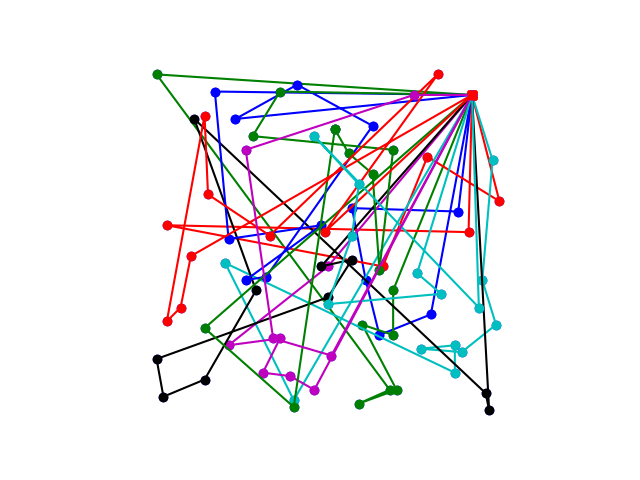
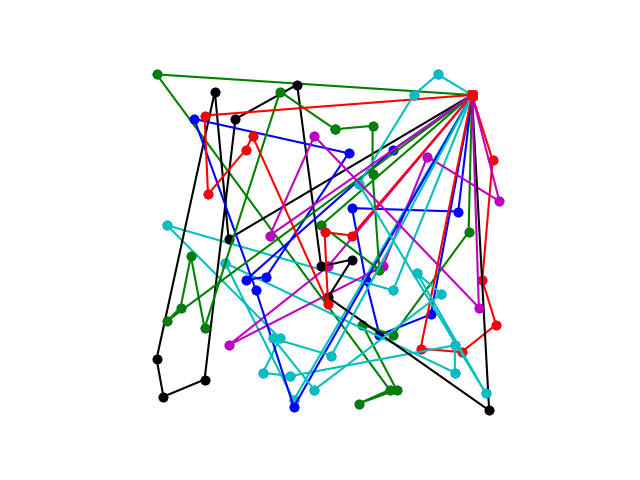
Local Search Algorithms one and two. Not working as good as expected

Changed region(s): [[0.25, 0.125, 0.8125, 0.875]]

diff --git a/src/solverLS.py b/src/solverLS.py
@@ -13,25 +13,96 @@ class LocalSearch:
     def euclideanDistance(self, coordinate1, coordinate2):
         return pow(pow(coordinate1.x - coordinate2.x, 2) + pow(coordinate1.y - coordinate2.y, 2), .5)
 
-    def local_search(self, start_sol, time_left):
+    # First attempt - Compare two routes
+    # Husk at beregne til det næste punkt, som der bliver byttet ud med
+    def local_search2(self, start_sol, current_total_distance, time_left):
         "start_sol = 2D-array solution/routes"
-        # To implement
         t0 = time.clock()
-        route = [0]
-        q=0
-        swap = False
-        distance_route1 = 0
-        distance_route2 = 0
-        for i in range(len(start_sol)):
-            for j in range(1, len(start_sol)):
-                temp = self.euclideanDistance(self.instance.nodes[current]["pt"], self.instance.nodes[j]["pt"])
-                start_sol[i][j] = 
+        #print("BEFORE: ", start_sol.routes)
+        counter = 0
+        exit_criteria = True
+        while exit_criteria:
+            for i in range(len(start_sol.routes)-1):
+                for j in range(len(start_sol.routes[i])):
+                    try:
+                        # Triangle Inequality                    
+                        sidea_dist_r1 = self.euclideanDistance(self.instance.nodes[start_sol.routes[i][j]]["pt"], self.instance.nodes[start_sol.routes[i][j+1]]["pt"])
+                        sideb_dist_r1 = self.euclideanDistance(self.instance.nodes[start_sol.routes[i][j+1]]["pt"], self.instance.nodes[start_sol.routes[i+1][j+1]]["pt"])
+                        sidec_dist_r1 = self.euclideanDistance(self.instance.nodes[start_sol.routes[i][j]]["pt"], self.instance.nodes[start_sol.routes[i+1][j+1]]["pt"])
+                        sidea_dist_r2 = self.euclideanDistance(self.instance.nodes[start_sol.routes[i+1][j]]["pt"], self.instance.nodes[start_sol.routes[i+1][j+1]]["pt"])
+                        sidec_dist_r2 = self.euclideanDistance(self.instance.nodes[start_sol.routes[i+1][j]]["pt"], self.instance.nodes[start_sol.routes[i][j+1]]["pt"])
+                        if sidea_dist_r1 + sideb_dist_r1 > sidec_dist_r1: #Triangle Inequality by contradiction withhold
+                            if sidec_dist_r1 < sidea_dist_r1: # We can make a swap                            
+                                if (start_sol.route_rq_slack[i] - self.instance.nodes[start_sol.routes[i][j+1]]["rq"] + self.instance.nodes[start_sol.routes[i+1][j+1]]["rq"]) <= self.instance.capacity:
+                                    tempPointer = start_sol.routes[i+1][j+1]
+                                    start_sol.routes[i+1][j+1] = start_sol.routes[i][j+1]
+                                    start_sol.routes[i][j+1] = tempPointer
+                                    current_total_distance = current_total_distance - sidea_dist_r1 + sidec_dist_r1 - sidea_dist_r2 + sidec_dist_r2
+                                else:
+                                    counter += 1
+                                    if counter == 5:
+                                        exit_criteria = False
+                                    pass
+                                    #print("Not enough capacity")
+                    except IndexError:
+                        pass
+                            #print('Out of Range')
+                    
+                    if time.clock() - t0 > time_left:
+                        sys.stdout.write("Time expired")
+                        return start_sol
 
+        #print("AFTER: ", start_sol.routes)
+        self.total_distance = current_total_distance
         return start_sol
 
-    def swap(self, route1_element, route2_element):
-        temp = route1_element
-        route1_element = route2_element
-        route2_element = temp
-        del temp
-        return (route1_element, route2_element)
+
+    #Første loop:
+    #   Index for at holde styr på den enkelte rute, som man er igang med
+
+    #Andet loop:
+    #   Index til hvert element i første rute
+
+    #Tredje loop:
+	#   Index til hvert element i anden rute
+    # Husk at beregne til det næste punkt, som der bliver byttet ud med
+    def local_search3(self, start_sol, current_total_distance, time_left):
+        "start_sol = 2D-array solution/routes"
+        t0 = time.clock()
+        #print("BEFORE: ", start_sol.routes)
+        exit_criteria = True
+        #while exit_criteria:
+        for i in range(len(start_sol.routes)-1):
+            if i+1 < len(start_sol.routes):
+                for j in range(len(start_sol.routes[i])-1):
+                    for k in range(len(start_sol.routes[i+1])-1):
+                        try:
+                            sidea_r1 = self.euclideanDistance(self.instance.nodes[start_sol.routes[i][k]]["pt"], self.instance.nodes[start_sol.routes[i][k+1]]["pt"])
+                            #sideb_r1 = self.euclideanDistance(self.instance.nodes[start_sol.routes[i][k+1]]["pt"], self.instance.nodes[start_sol.routes[i+1][k+1]]["pt"])
+                            sidec_r1 = self.euclideanDistance(self.instance.nodes[start_sol.routes[i][k]]["pt"], self.instance.nodes[start_sol.routes[i+1][k+1]]["pt"])
+                            
+                            # Route two to equalize the swap in route one 
+                            sidea_r2 = self.euclideanDistance(self.instance.nodes[start_sol.routes[i+1][k]]["pt"], self.instance.nodes[start_sol.routes[i+1][k+1]]["pt"])
+                            # Side B Route 2 is the same as Side B Route 1
+                            sidec_r2 = self.euclideanDistance(self.instance.nodes[start_sol.routes[i+1][k]]["pt"], self.instance.nodes[start_sol.routes[i+1][k+1]]["pt"])
+
+                            if sidea_r1 > sidec_r1:
+                                # Keeping the MAX capacity
+                                if (start_sol.route_rq_slack[i] - self.instance.nodes[start_sol.routes[i][k+1]]["rq"] + self.instance.nodes[start_sol.routes[i+1][k+1]]["rq"]) <= self.instance.capacity:
+                                    if (start_sol.route_rq_slack[i+1] - self.instance.nodes[start_sol.routes[i+1][k+1]]["rq"] + self.instance.nodes[start_sol.routes[i][k+1]]["rq"]) <= self.instance.capacity:
+                                        if start_sol.routes[i+1][k+1] != 0 and start_sol.routes[i][k+1] != 0:
+                                            tempPointer = start_sol.routes[i+1][k+1]
+                                            start_sol.routes[i+1][k+1] = start_sol.routes[i][k+1]
+                                            start_sol.routes[i][k+1] = tempPointer
+                                            current_total_distance = current_total_distance - sidea_r1 + sidec_r1 - sidea_r2 + sidec_r2
+                                            print(current_total_distance)
+                        except IndexError:
+                            continue
+                    
+            if time.clock() - t0 > time_left:
+                sys.stdout.write("Time expired")
+                return start_sol
+
+        #print("AFTER: ", start_sol.routes)
+        self.total_distance = current_total_distance
+        return start_sol

diff --git a/src/solverNN.py b/src/solverNN.py
@@ -27,33 +27,40 @@ class NearestNeighbour:
         t0 = time.clock()
         route = [0]
         q=0
-        # Just to have a ******** number
-        shortestDistance = 10000000
+        # Until further notice
+        shortestDistance = 100000
+        route_total_distance = 0
         current = 0
         visited = []
+        
         for i in range(len(self.instance.nodes)-1):
             for j in range(1,len(self.instance.nodes)):
                 temp = self.euclideanDistance(self.instance.nodes[current]["pt"], self.instance.nodes[j]["pt"])
                 if j not in visited:                    
-                    if temp <= shortestDistance:
+                    if temp < shortestDistance:
                         shortestDistance = temp
                         current = j
                         visited += [j]
                         if q+self.instance.nodes[current]["rq"] <= self.instance.capacity:
-                            q+=self.instance.nodes[current]["rq"]                            
+                            q+=self.instance.nodes[current]["rq"]
                             if len(route) > 0:
                                 self.total_distance += shortestDistance
-                            route += [current]                            
+                                route_total_distance += shortestDistance
+                            route += [current]
                         else:
-                            self.total_distance += shortestDistance
+                            sol.route_distances += [route_total_distance]
+                            route_total_distance = 0
+                            sol.route_rq_slack += [q]
                             sol.routes += [route+[0]]
-                            route = [0,current]                
+                            route = [0,current]
                             q=self.instance.nodes[current]["rq"]
             shortestDistance = 10000000
             if time.clock() - t0 > time_left:
                 sys.stdout.write("Time expired")
                 return sol
-
+        sol.route_distances += [route_total_distance]
+        sol.route_rq_slack += [q]
         sol.routes += [route+[0]]
-        solution.routes = sol.routes
+        solution.routes = route
+        solution.route_distances = sol.route_distances
         return sol

diff --git a/src/main.py b/src/main.py
@@ -39,11 +39,12 @@ def solve(instance, config):
     ch_instance_times_costs += [t0, nn.total_distance]
     assert sol.valid_solution()
     
-    #t0 = time.process_time() # Changed from clock to process_time due to deprecation
-    #ls = solverLS.LocalSearch(instance)
-    #sol = ls.local_search(sol, config.time_limit-t0) # returns an object of type Solution
-    #print("LS COST: ", ls.total_distance)
-    #assert sol.valid_solution()
+    t0 = time.process_time() # Changed from clock to process_time due to deprecation
+    ls = solverLS.LocalSearch(instance)
+    sol = ls.local_search3(sol, nn.total_distance, config.time_limit-t0) # returns an object of type Solution
+    print("LS COST: ", ls.total_distance)
+    ch_instance_times_costs += [t0, ls.total_distance]
+    assert sol.valid_solution()
     return sol
 
 

diff --git a/src/solution.py b/src/solution.py
@@ -7,6 +7,8 @@ import data
 
 class Solution:
     routes = []
+    route_distances = []
+    route_rq_slack = []
     costVal = 0 # Default value
     def __init__(self, instance):
         self.instance = instance
